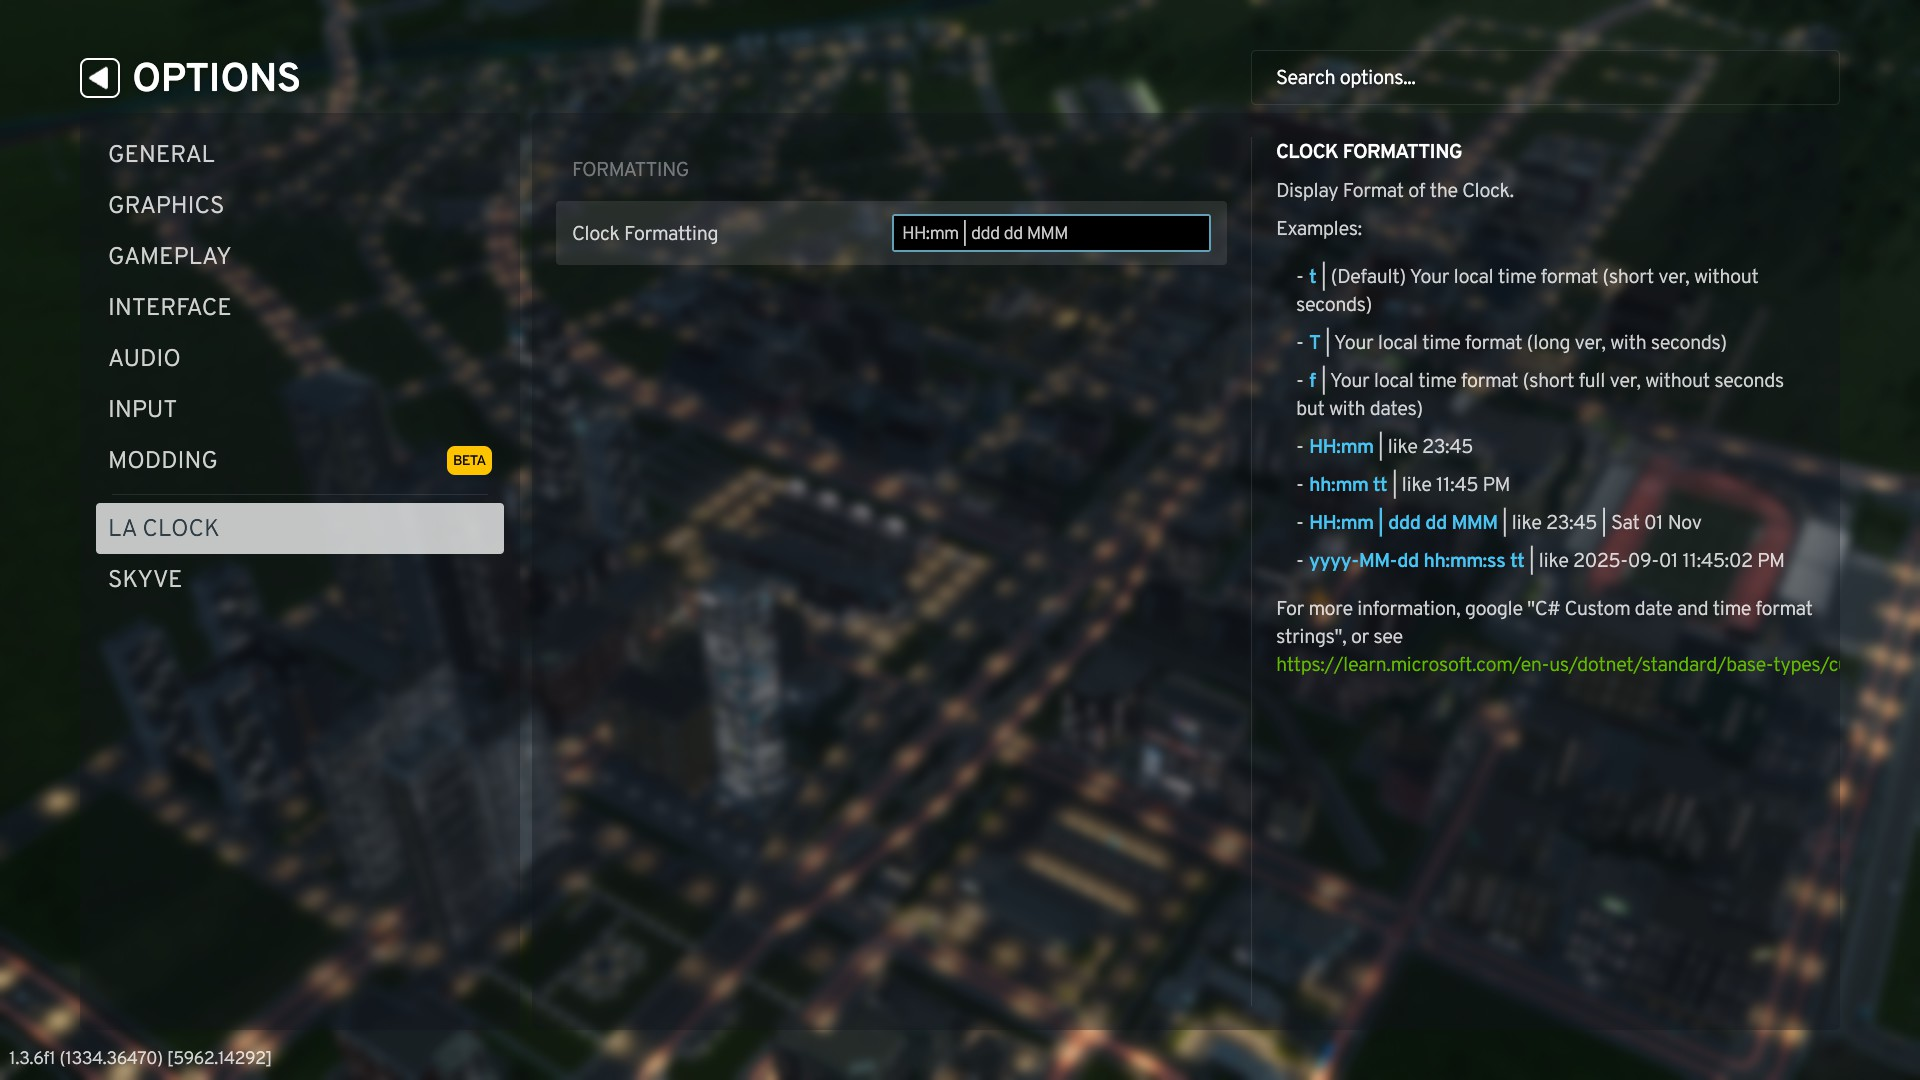
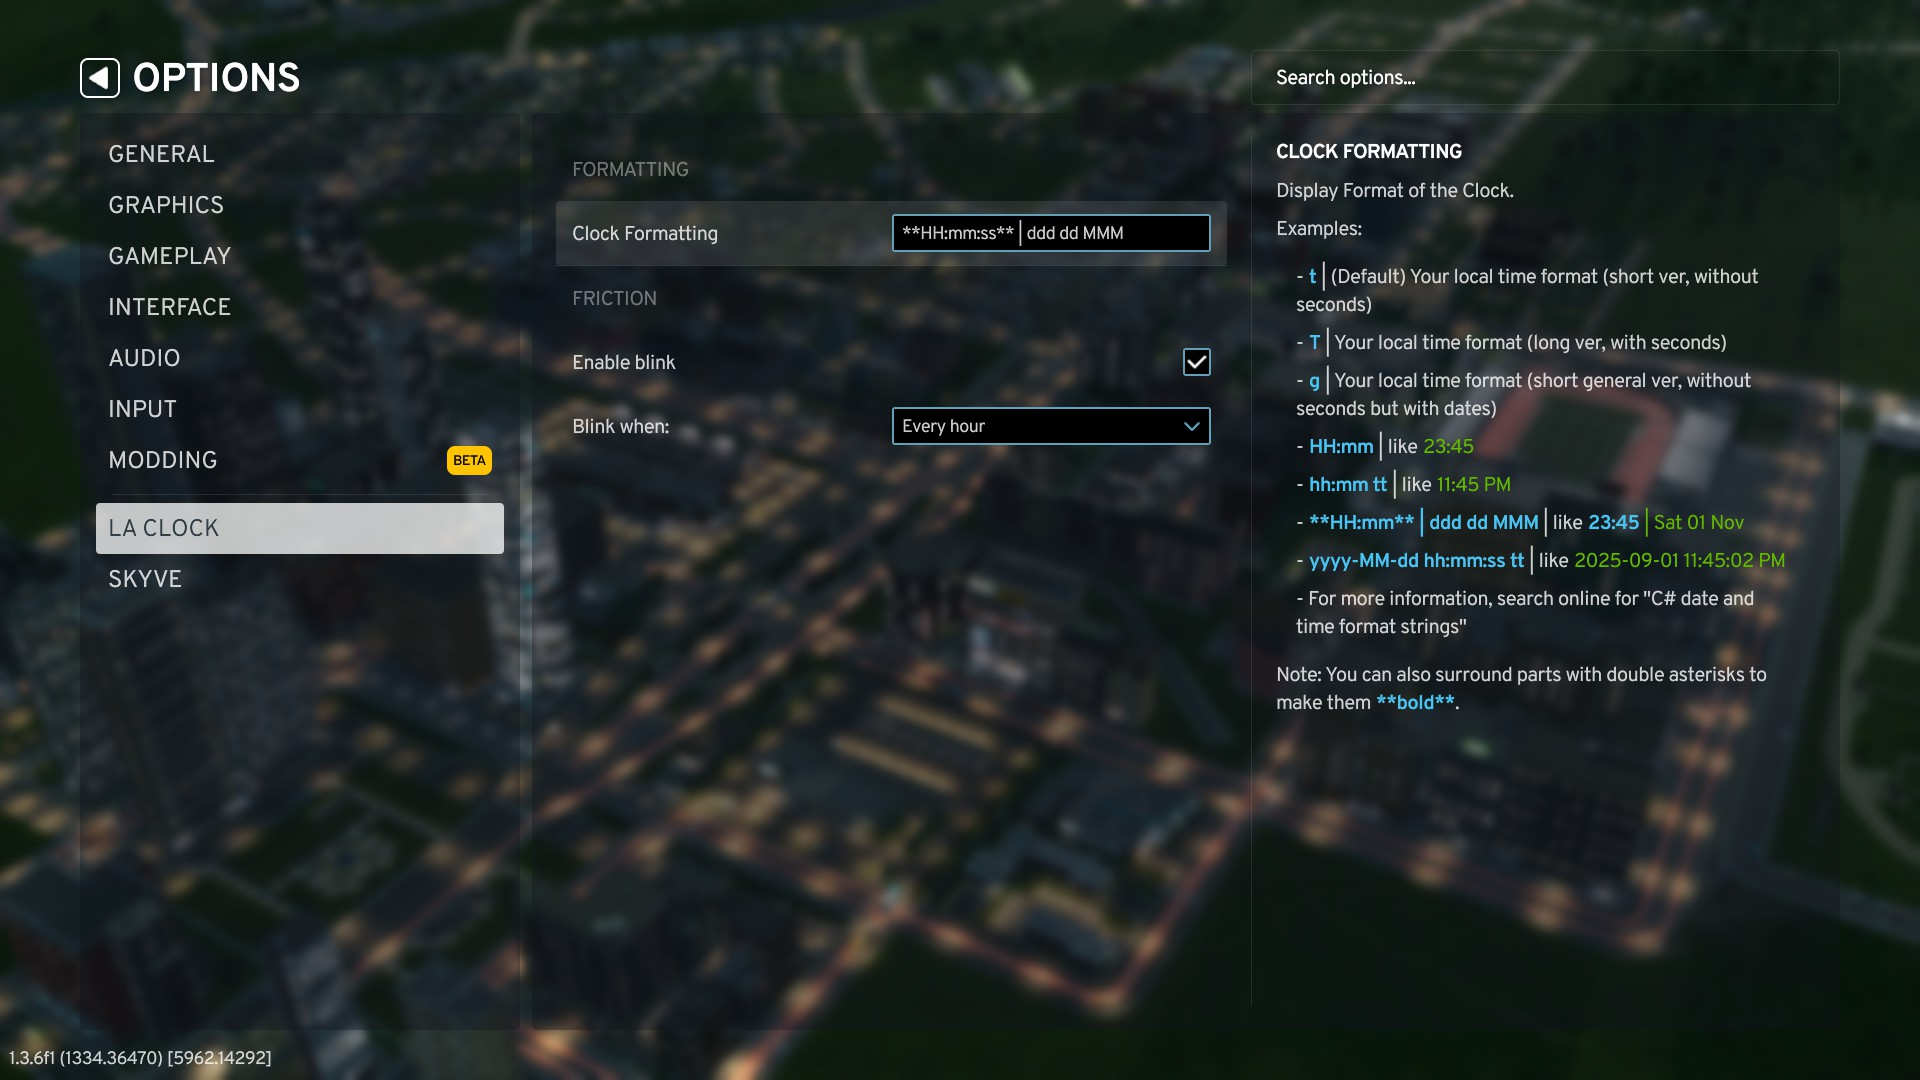
Implement clock blink conditions

diff --git a/LaClock/UI/src/mods/la_clock.module.scss b/LaClock/UI/src/mods/la_clock.module.scss
@@ -14,7 +14,7 @@
 // From .button_iQJ.animate_fHa in index.css
 .blink {
     animation-name: blink-animation;
-    animation-duration: .7s;
+    animation-duration: .75s;
     animation-iteration-count: infinite;
     animation-direction: alternate;
     animation-timing-function: ease-in-out

diff --git a/LaClock/Systems/UISystem.cs b/LaClock/Systems/UISystem.cs
@@ -27,7 +27,45 @@ namespace LaClock
 
         protected static bool DoBlink()
         {
-            return Mod.m_Setting.EnableBlink;
+            if (!Mod.m_Setting.EnableBlink)
+            {
+                return false;
+            }
+
+            uint blinkPerMin;
+            switch (Mod.m_Setting.BlinkCondition)
+            {
+                case ModSettings.FrictionTriggerEnum.Never:
+                    return false;
+                case ModSettings.FrictionTriggerEnum.Always:
+                    return true;
+                case ModSettings.FrictionTriggerEnum.Per60min:
+                    blinkPerMin = 60;
+                    break;
+                case ModSettings.FrictionTriggerEnum.Per30min:
+                    blinkPerMin = 30;
+                    break;
+                case ModSettings.FrictionTriggerEnum.Per1min:
+                    blinkPerMin = 1;
+                    break;
+
+                default:
+                    Mod.log.Error($"Unknown BlinkCondition: {Mod.m_Setting.BlinkCondition}. Please Contact Mod Creator.");
+                    return true;    // prompt user to investigate
+            }
+
+            var now = DateTime.Now;
+            // Note: Blink duration (12s) must be smaller than a minute
+            if ((now.Hour * 60 + now.Minute) % blinkPerMin != 0 || now.Second >= 12)
+            {
+                return false; 
+            }
+            else
+            {
+                //Mod.log.Info($"currentMin: {now.Hour * 60 + now.Minute}");
+                return true;
+            }
+
         }
 
         protected override void OnCreate()

diff --git a/LaClock/ModSettings/LocaleEN.cs b/LaClock/ModSettings/LocaleEN.cs
@@ -40,7 +40,16 @@ Note: You can also surround parts with double asterisks to make them **\*\*bold\
 " },
 
                 { m_Setting.GetOptionLabelLocaleID(nameof(ModSettings.EnableBlink)), "Enable blink" },
-                { m_Setting.GetOptionDescLocaleID(nameof(ModSettings.EnableBlink)), "Enable blinking: Clock will blink." },
+                { m_Setting.GetOptionDescLocaleID(nameof(ModSettings.EnableBlink)), "Enable blinking when below conditions are met." },
+
+                { m_Setting.GetOptionLabelLocaleID(nameof(ModSettings.BlinkCondition)), "Blink when:" },
+                { m_Setting.GetOptionDescLocaleID(nameof(ModSettings.BlinkCondition)), "Make the clock blink when the given conditions are met." },
+
+                { m_Setting.GetEnumValueLocaleID(ModSettings.FrictionTriggerEnum.Never), "Never" },
+                { m_Setting.GetEnumValueLocaleID(ModSettings.FrictionTriggerEnum.Per60min), "Every hour" },
+                { m_Setting.GetEnumValueLocaleID(ModSettings.FrictionTriggerEnum.Per30min), "Every 30 minutes" },
+                { m_Setting.GetEnumValueLocaleID(ModSettings.FrictionTriggerEnum.Per1min), "Every minute :-p" },
+                { m_Setting.GetEnumValueLocaleID(ModSettings.FrictionTriggerEnum.Always), "Always??" },
 
             };
         }

diff --git a/LaClock/ModSettings/ModSettings.cs b/LaClock/ModSettings/ModSettings.cs
@@ -32,11 +32,27 @@ namespace LaClock
         [SettingsUISection(kSection, kFrictionGroup)]
         public bool EnableBlink { get; set; } = false;
 
+        [SettingsUISection(kSection, kFrictionGroup)]
+        [SettingsUIDisableByCondition(typeof(ModSettings), nameof(EnableBlink), invert: true)]
+        public FrictionTriggerEnum BlinkCondition { get; set; } = FrictionTriggerEnum.Per60min;
+
+
+
+
         public override void SetDefaults()
         {
             throw new System.NotImplementedException();
         }
 
+
+        public enum FrictionTriggerEnum
+        {
+            Never,
+            Per60min,
+            Per30min,
+            Per1min,
+            Always,
+        }
     }
 
 }

diff --git a/ChangeLog.md b/ChangeLog.md
@@ -4,11 +4,16 @@ ChangeLog
 LaClock ChangeLog
 -------------------------------------------------------------------------------
 
-### v1.0.2 <-- v1.0.1 | `2025-11-??` 
+### v1.1.0 <-- v1.0.1 | `2025-11-14` 
 
+- Add optional blinking of the clock every hour
+  (or under other pre-defined conditions).
 - Allow minimal markdown syntax in Clock Formatting
   (now you can add bold text or increase text size by making it headings).
 - Various text clarifications.
+- Renamed mod from "La Clock: Show System Time" to "La Clock (Show System Time)"
+  to make title look better in Skyve.
+- Update thumbnail and screenshot.
 
 -------------------------------------------------------------------------------
 

diff --git a/README.md b/README.md
@@ -13,6 +13,7 @@ LaClock Mod Info
 
 - Toolbar clock displaying system time
 - Customizable display format
+- Option to making the clock blink every hour
 
 ### Motivation
 
@@ -24,7 +25,7 @@ which is also my first C#/React/TypeScript project.
 
 Enjoy!
 
-(Remember, as a general precaution when using mods, always **backup your saves**.)
+(As a general precaution when using mods, remember to **always backup your saves**.)
 
 ### Acknowledgements
 
